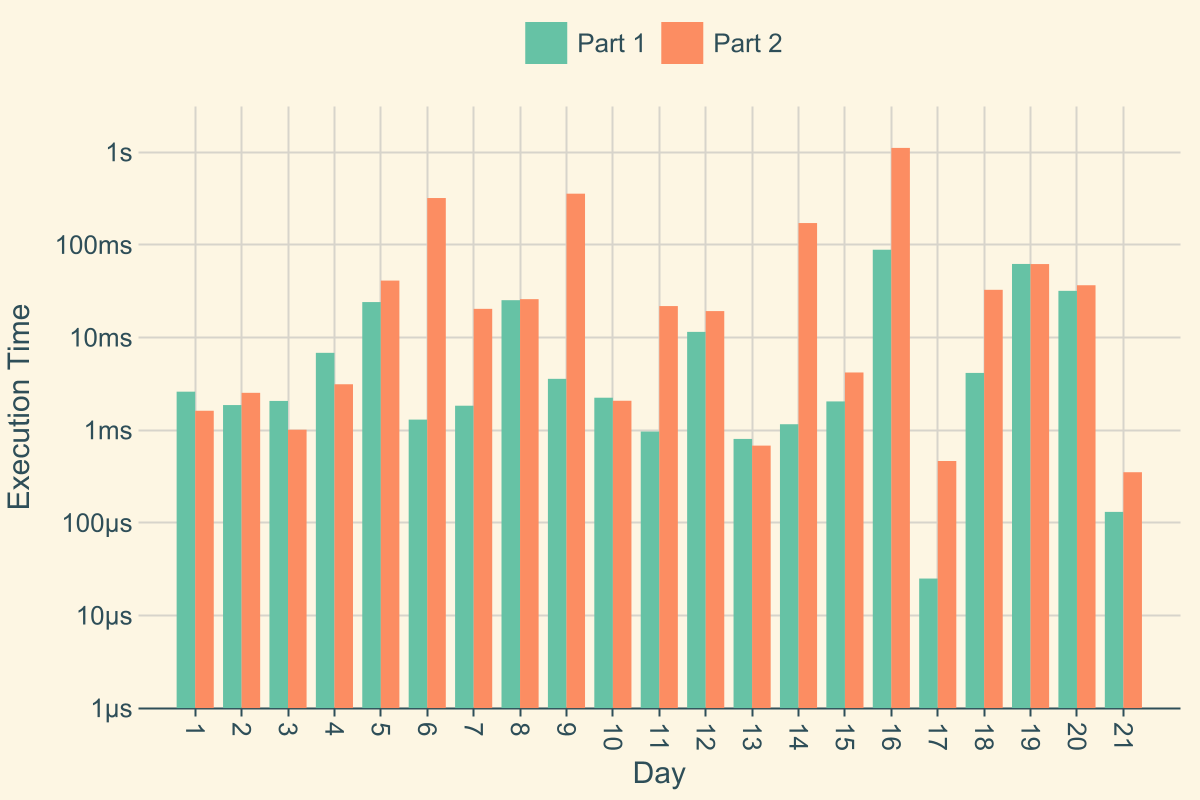
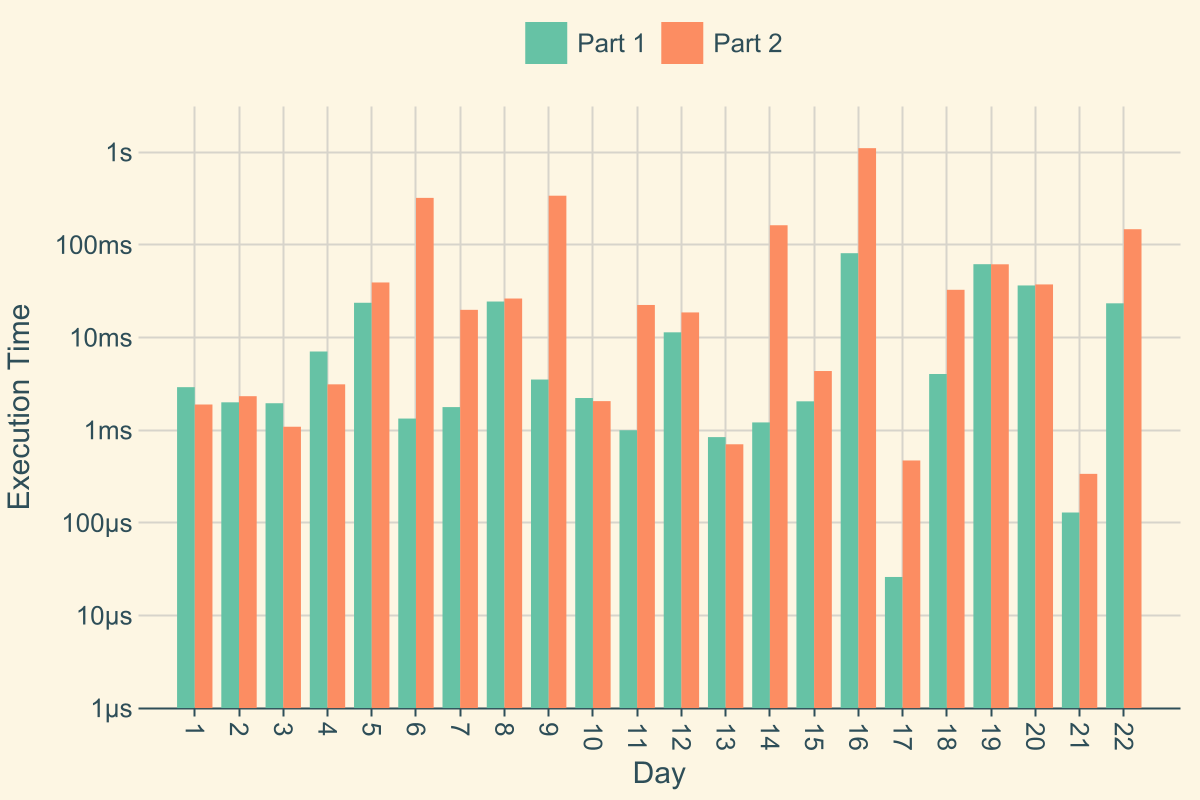
2024 Day22 + times

Changed region(s): [[0.1542, 0.1875, 0.9558, 0.9375]]

diff --git a/src/net/sheltem/aoc/y2024/Day22.kt b/src/net/sheltem/aoc/y2024/Day22.kt
@@ -1,0 +1,36 @@
+package net.sheltem.aoc.y2024
+
+import net.sheltem.common.forEachParallel
+import net.sheltem.common.sumOfParallel
+import java.util.concurrent.ConcurrentHashMap
+
+suspend fun main() {
+    Day22().run()
+}
+
+class Day22 : Day<Long>(37327623, 24) {
+
+    override suspend fun part1(input: List<String>): Long =
+        input.filter { it.isNotEmpty() }.map { it.toLong() }.sumOfParallel { it.secret().drop(2000).first() }
+
+    override suspend fun part2(input: List<String>): Long {
+        val monkeys = input.filter { it.isNotEmpty() }.map { it.toLong() }
+        val maxBananas = ConcurrentHashMap<List<Int>, Int>()
+
+        monkeys.forEachParallel { monkey ->
+            val prices = monkey.secret().take(2000).map { it.toString().last().digitToInt() }.toList()
+            val changeSetsSeen = HashSet<List<Int>>()
+
+            prices.zipWithNext { left, right -> right - left }
+                .windowed(4)
+                .forEachIndexed { index, changeSet ->
+                    if (changeSetsSeen.add(changeSet)) maxBananas.compute(changeSet) { _, value -> (value ?: 0) + prices[index + 4] }
+                }
+        }
+        return maxBananas.maxOf { it.value }.toLong()
+    }
+
+    private fun Long.secret() = generateSequence(this) { secret ->
+        listOf(6, 5, 11).fold(secret) { acc, bits -> acc.xor(if (bits == 5) acc shr bits else acc shl bits) % 16777216 }
+    }
+}

diff --git a/src/net/sheltem/common/Utils.kt b/src/net/sheltem/common/Utils.kt
@@ -21,4 +21,6 @@ suspend inline fun <T> Iterable<T>.countParallel(crossinline predicate: (T) -> B
 suspend inline fun <T> Iterable<T>.sumOfParallel(crossinline transform: (T) -> Long): Long = coroutineScope {
     map { async { transform(it) } }.sumOf { it.await() }
 }
-
+suspend inline fun <T> Iterable<T>.forEachParallel(crossinline action: (T) -> Unit): Unit = coroutineScope {
+    map { async { action(it) } }.awaitAll()
+}

diff --git a/src/net/sheltem/aoc/y2024/Year2024.kt b/src/net/sheltem/aoc/y2024/Year2024.kt
@@ -24,7 +24,7 @@ private val days = listOf(
     "19" to Day19(),
     "20" to Day20(),
     "21" to Day21(),
-//    "22" to Day22(),
+    "22" to Day22(),
 //    "23" to Day23(),
 //    "24" to Day24(),
 //    "25" to Day25(),

diff --git a/TIMES2024.MD b/TIMES2024.MD
@@ -1,26 +1,27 @@
 | Day |  Part A |  Part B |   Total |
 |---:|--------:|--------:|--------:|
-| 01 | 0.0026s | 0.0016s | 0.0042s |
-| 02 | 0.0019s | 0.0025s | 0.0044s |
-| 03 | 0.0021s | 0.0010s | 0.0031s |
-| 04 | 0.0068s | 0.0031s | 0.0099s |
-| 05 | 0.0241s | 0.0411s | 0.0652s |
-| 06 | 0.0013s | 0.3195s | 0.3208s |
-| 07 | 0.0018s | 0.0204s | 0.0222s |
-| 08 | 0.0252s | 0.0259s | 0.0511s |
-| 09 | 0.0036s | 0.3560s | 0.3596s |
+| 01 | 0.0029s | 0.0019s | 0.0048s |
+| 02 | 0.0020s | 0.0023s | 0.0043s |
+| 03 | 0.0019s | 0.0011s | 0.0030s |
+| 04 | 0.0070s | 0.0031s | 0.0102s |
+| 05 | 0.0237s | 0.0392s | 0.0629s |
+| 06 | 0.0013s | 0.3207s | 0.3220s |
+| 07 | 0.0018s | 0.0199s | 0.0216s |
+| 08 | 0.0244s | 0.0263s | 0.0507s |
+| 09 | 0.0035s | 0.3385s | 0.3420s |
 | 10 | 0.0022s | 0.0021s | 0.0043s |
-| 11 | 0.0010s | 0.0218s | 0.0228s |
-| 12 | 0.0115s | 0.0192s | 0.0307s |
+| 11 | 0.0010s | 0.0224s | 0.0234s |
+| 12 | 0.0114s | 0.0186s | 0.0300s |
 | 13 | 0.0008s | 0.0007s | 0.0015s |
-| 14 | 0.0012s | 0.1715s | 0.1727s |
-| 15 | 0.0020s | 0.0042s | 0.0062s |
-| 16 | 0.0884s | 1.1101s | 1.1985s |
+| 14 | 0.0012s | 0.1624s | 0.1637s |
+| 15 | 0.0020s | 0.0043s | 0.0064s |
+| 16 | 0.0811s | 1.1027s | 1.1839s |
 | 17 | 0.0000s | 0.0005s | 0.0005s |
-| 18 | 0.0041s | 0.0327s | 0.0368s |
-| 19 | 0.0621s | 0.0619s | 0.1240s |
-| 20 | 0.0318s | 0.0366s | 0.0684s |
-| 21 | 0.0001s | 0.0004s | 0.0005s |
+| 18 | 0.0040s | 0.0327s | 0.0367s |
+| 19 | 0.0617s | 0.0616s | 0.1233s |
+| 20 | 0.0364s | 0.0373s | 0.0737s |
+| 21 | 0.0001s | 0.0003s | 0.0005s |
+| 22 | 0.0233s | 0.1472s | 0.1705s |
 
 
-Total time: 2.507351093s
+Total time: 2.639821300s
